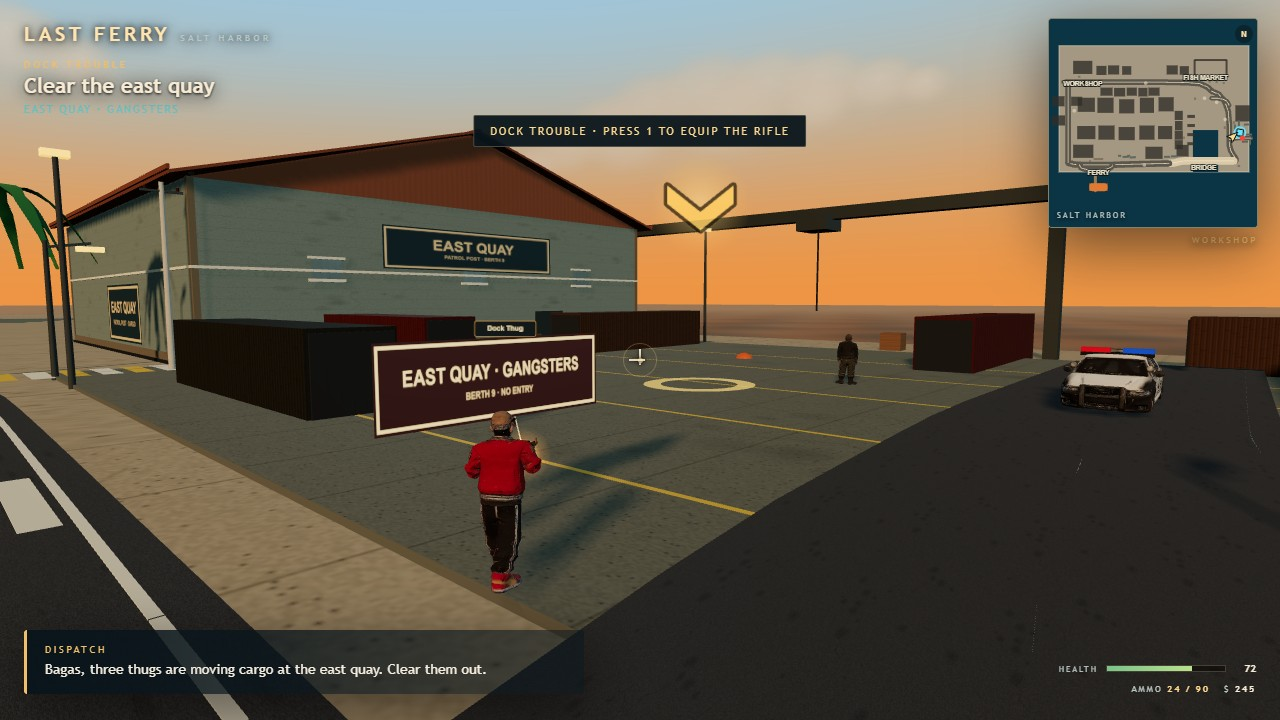
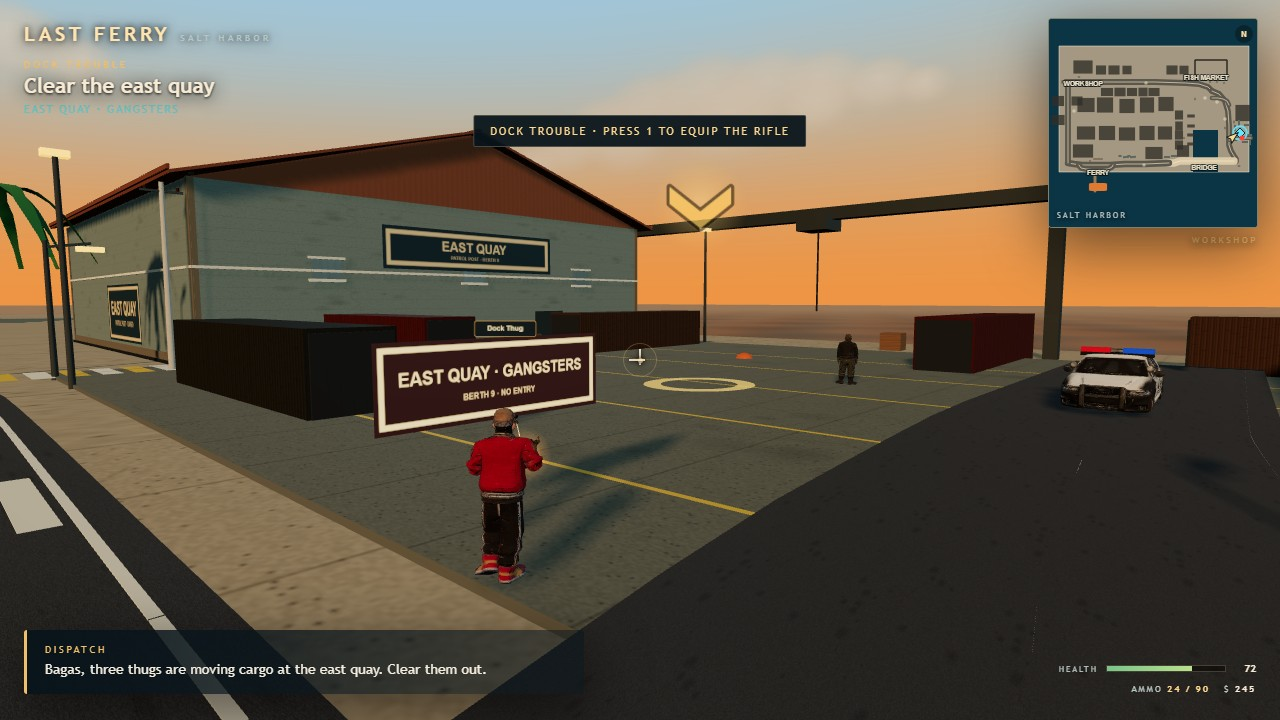
feat: end the story on a timed complete card
- Show STORY COMPLETE · SALT HARBOR for four wall-clock seconds on the boarding card.
- Then drop to free roam with a cleared objective and the day scene; no render behind the card.
- Keep ordinary Continue on resume, so the CANAL RUN card cannot skip Ferry Escape.
- Refresh the four stills with the rewritten sign faces.

diff --git a/game/src/missions.js b/game/src/missions.js
@@ -1,2 +1,2 @@
-import*as t from"../vendor/three.module.min.js";import{NODES as s,POI as i,distance2D as h,rngFor as e}from"./core.js";import{walkHeightAt as r}from"./world.js";import{Actor as o}from"./npc.js";import{createBeacon as MB}from"./missionprops.js";const a=Math,RK={x:-157,z:-83.5},{Vector3:n,RingGeometry:l,MeshBasicMaterial:c,Mesh:d,Group:u,DoubleSide:f}=t,p="find_truck",k="cross_bridge",m="ferry_lane",y="return_workshop",b="dock_trouble",_="debt_run",w="canal_run",C="ferry_escape",g="free_roam",T={find_truck:["Take the impounded tow truck","Impound lot · Fish Market",s.slot_tow_truck_A.x,s.slot_tow_truck_A.z],cross_bridge:["Cross the bridge checkpoint","Canal Bend → Bridge",s.checkpoint_bridge_01.x,s.checkpoint_bridge_01.z],ferry_lane:["Park in the ferry lane","Ferry Terminal · Pier 4",s.lane_ferry_dest.x,s.lane_ferry_dest.z],return_workshop:["Return Tirta to the workshop","West Junction → Shop Street",i.workshop.x,i.workshop.z],debt_run:["Collect the market debt","Market · Alley · Pier",i.market.x,i.market.z],canal_run:["Reach the ferry terminal in 75 s","Ferry Terminal · Pier 4",i.terminal.x,i.terminal.z],ferry_escape:["Board the last ferry","Pier · last departure",i.pier.x,i.pier.z],free_roam:["Free roam Salt Harbor","East quay · dock trouble reported",168,30],dock_trouble:["Clear the east quay","East Quay · gangsters",168,30]},D=[i.market,i.alley,i.pier],X={[_]:[168,30,0],[w]:[i.pier.x,i.pier.z,0],[C]:[i.terminal.x,i.terminal.z,0]},TR={find_truck:"vehicle",cross_bridge:"arrive",ferry_lane:"arrive",return_workshop:"arrive",dock_trouble:"combat",debt_run:"interact",canal_run:"timed",ferry_escape:"interact",free_roam:"none"},A=t=>{const s=a.max(0,a.ceil(t));return`${String(a.floor(s/60)).padStart(2,"0")}:${String(s%60).padStart(2,"0")}`};export class MissionDirector{constructor(t){this.i=t.scene,this.p=t.player,this.f=t.fleet,this.l=t.police,this.n=t.npc,this.h=t.hud,this.u=t.audio,this.c=t.combat,this.dn=t.dayNight??null,this.m=120,this.st=p,this.k=[],this.t=0,this.sT=0,this.completed=!1,this._=!1,this.d=0,this.C=D[0],this.g=null,this.T=function(t){const s=new u;s.name="mission_marker";const i=new d(new l(1.3,1.9,32),new c({color:16761436,transparent:!0,opacity:.8,side:f,depthWrite:!1}));return i.rotation.x=-a.PI/2,i.position.y=.22,s.add(i),s.visible=!1,t.add(s),s}(this.i),this.beacon=MB(this.i),this.o=null,this.setObjective(...T.find_truck),this.h.setMission("Last Ferry","The impound lot is behind the Fish Market."),this.D={nodes:s,stage:this.st,objective:this.o,events:this.k,startTruckRun:()=>this.replay(),onTruckTakeover:t=>this.k.push({type:"listener",handler:t})},window.LastFerryMission=this.D,window.LastFerryNodes=s,this.c.A=()=>{this.st===_&&this.checkpointRetry()}}setObjective(t,s,i,h){this.o={text:t,area:s,x:i,z:h},this.T.position.set(i,r(i,h,4),h),this.T.visible=!0,this.beacon&&(this.beacon.position.set(i,r(i,h,4)+6.2,h),this.beacon.visible=!0),this.h.setObjective(t,s)}clearObjective(t,s){this.o=null,this.T.visible=!1,this.beacon&&(this.beacon.visible=!1),this.D&&(this.D.hasObjective=!1,this.D.trigger=TR[this.st]),this.h.setObjective(t,s)}onEnterVehicle(t){"tow"===t.key?this.st===p&&this.R():this.l?.onCarStolen(t)}R(){if(this.st!==p)return;const t={type:"truck_takeover",vehicle:"tow",label:"Tirta",node:"slot_tow_truck_A",time:this.t,area:"Parking Lot"};this.k.push(t);for(const s of this.k)"listener"===s.type&&s.handler?.(t);window.dispatchEvent(new CustomEvent("lastferry:truck-takeover",{detail:t})),this.st=k,this.sT=0,this.n.daraRadioCall(),this.l.setWanted(1,!0),this.u?.radioChatter(),this.h.setDialogue("DARA","Bagas! That truck is impounded. Stop the truck. I am calling it in.",5.2),this.h.showToast("Wanted level 1 · Patrol Unit 7 dispatched"),this.h.setMission("Last Ferry","Dara has called the harbour patrol."),this.setObjective(...T.cross_bridge),this.h.setWanted(1),this.S("truck_takeover")}v(){this.st===k&&(this.st=m,this.sT=0,this.u?.radioChatter(),this.h.setDialogue("DISPATCH","Unit 7, he is over the bridge. Cut him off on Waterfront Road.",4.5),this.setObjective(...T.ferry_lane))}P(){this.st===m&&(this.st=y,this.sT=0,this.h.setDialogue("IDRIS","Tirta, you are in the lane. The last ferry is held at Pier 4. Park her and see me.",5.2),this.setObjective(...T.return_workshop))}F(){this.st===y&&(this.st=g,this.completed=!0,this.m+=850,this.l.setWanted(0,!1),this.h.setWanted(0),this.h.setMoney(this.m),this.c&&(this.c.available=!0),this.u?.success(),this.h.showMissionComplete({title:"LAST FERRY",detail:`Tirta is home. Dara keeps the report quiet. Cash: $${this.m}.`,money:this.m,reward:850}),this.h.setMission("Last Ferry","The run is done. Salt Harbor is yours."),this.clearObjective(...T.free_roam),this.S("mission_complete"))}$(){this.st=_,this.d=0,this.C=D[0],this.g=null,this.h.setMission("Debt Collector","Debt"),this.h.setDialogue("DARA","Market, alley, pier.",4.5),this.u?.radioChatter(),this.setObjective("Collect the market debt 0/3","Market · Alley · Pier",i.market.x,i.market.z)}interact(){return h(this.p.x,this.p.z,RK.x,RK.z)<3?this.buyAmmo():this.st===_&&this.d<3&&h(this.p.x,this.p.z,this.C.x,this.C.z)<3?(this.M(),!0):this.st===C&&h(this.p.x,this.p.z,i.pier.x,i.pier.z)<3&&(this.B(),!0)}buyAmmo(){return this.m<25?(this.h.showToast("Not enough cash"),!0):(this.m-=25,this.p.reserve+=30,this.h.setMoney(this.m),this.h.setAmmo(this.p.ammo,this.p.reserve,this.p.equipped),this.u?.ui(),this.h.showToast("Ammo · 30 rounds · −$25"),!0)}M(){this.d++,this.m+=150,this.h.setMoney(this.m),this.u?.ui(),this.h.showToast("Debt · +$150"),this.h.setDialogue("TRADER","Paid.",3.2),this.d<3?(this.C=D[this.d],this.setObjective(`Collect the market debt ${this.d}/3`,"Market · Alley · Pier",this.C.x,this.C.z)):(this.setObjective("Clear the pier 3/3","Pier",i.pier.x,i.pier.z),this.c.L(i.pier.x,i.pier.z),this.h.setMission("Debt Collector","Armed crew."),this.h.setDialogue("DISPATCH","Clear them.",4))}I(){this.q(w,75,"Canal Run","75 s.")}O(){this.q(C,90,"Ferry Escape","Board the last ferry!"),this.l.setWanted(2,!0),this.h.setWanted(2)}q(t,s,i,h){this.st=t,this.sT=s,this.g=null,this.setObjective(...T[t]),this.h.setMission(i,""),this.h.setDialogue("DARA",h,4.8),this.u?.radioChatter()}finish(t,s,i,h){this.m+=t,this.h.setMoney(this.m),this.h.showMissionComplete({title:s,detail:`${i} Cash: $${this.m}.`,money:this.m,reward:t}),h()}B(){this.st===C&&(this.h.setObjectiveHint(''),this.h.showToast('Last ferry boarded'),this.l.setWanted(0,!1),this.h.setWanted(0),this.u?.success(),this.h.setMission("Salt Harbor","Leaves."),this.m+=600,this.h.setMoney(this.m),this.h.showMissionComplete({title:"SALT HARBOR",detail:`Aboard the last ferry. Cash: $${this.m}.`,money:this.m,reward:600}),this.S("ferry_boarded"))}endStory(){this.st===C&&(this.st=g,this.completed=!0,this.h.setObjectiveHint(''),this.clearObjective(...T.free_roam),this.h.setWanted(0),this.h.setCrosshair(!1),this.h.setMission("Salt Harbor","The run is done. Salt Harbor is yours."),this.dn?.setStage(g),this.D.stage=g,this.D.objective=null,this.D.hasObjective=!1,this.D.trigger=TR[g],this.S("mission_complete"))}update(t,e){this.t+=t;const r=this.st===w||this.st===C;this.sT=r?a.max(0,this.sT-t):this.sT+t,this.T.children[0].rotation.z+=.7*t;const o="tow"===this.f.driven?.key;r&&(this.h.objective.textContent=`${this.o.text} · ${A(this.sT)}`),this.st===p?o&&this.R():this.st===k?o&&this.p.y>1.4&&h(this.p.x,this.p.z,s.checkpoint_bridge_01.x,s.checkpoint_bridge_01.z)<2.5&&this.v():this.st===m?o&&h(this.p.x,this.p.z,s.lane_ferry_dest.x,s.lane_ferry_dest.z)<2.5&&this.P():this.st===y?o&&h(this.p.x,this.p.z,i.workshop.x,i.workshop.z)<2.5&&this.F():this.st===g?this.c&&!this.c.active&&this.c.available&&h(this.p.x,this.p.z,168,30)<22&&(this.st=b,this._=!1,this.c.start(),this.h.setMission("Dock Trouble","Three dock thugs are moving cargo at the east quay."),this.setObjective(...T.dock_trouble)):this.st===b?this.c?.cleared&&!this._&&(this._=!0,this.st=_,this.m+=500,this.h.setMoney(this.m),this.h.showToast("East quay cleared · +$500"),this.h.showMissionComplete({title:"DOCK TROUBLE",detail:`Quay cleared. Cash: $${this.m}.`,money:this.m,reward:500}),this.$(),this.S("dock_complete")):this.st===_?this.d>=3&&this.c?.cleared&&(this.l.setWanted(0,!1),this.h.setWanted(0),this.h.showToast("Debt settled"),this.finish(400,"DEBT COLLECTOR","Debt done.",()=>this.I()),this.S("debt_complete")):this.st===w?this.f.driven&&this.sT>0&&this.G()&&h(this.p.x,this.p.z,i.terminal.x,i.terminal.z)<2.5?(this.h.showToast("Terminal reached"),this.finish(300,"CANAL RUN","Made it.",()=>this.O()),this.S("canal_complete")):this.sT<=0&&(this.sT=75,this.checkpointRetry()):this.st===C&&(this.l.wanted<2&&(this.l.setWanted(2,!0),this.h.setWanted(2)),this.sT<=0&&(this.sT=90,this.checkpointRetry())),e?.consume("KeyM")&&this.st===g&&this.replay(),this.hint(),this.D.stage=this.st,this.D.objective=this.o,this.D.trigger=TR[this.st],this.D.hasObjective=!!this.o,this.dn?.setStage(this.st)}
+import*as t from"../vendor/three.module.min.js";import{NODES as s,POI as i,distance2D as h,rngFor as e}from"./core.js";import{walkHeightAt as r}from"./world.js";import{Actor as o}from"./npc.js";import{createBeacon as MB}from"./missionprops.js";const a=Math,RK={x:-157,z:-83.5},{Vector3:n,RingGeometry:l,MeshBasicMaterial:c,Mesh:d,Group:u,DoubleSide:f}=t,p="find_truck",k="cross_bridge",m="ferry_lane",y="return_workshop",b="dock_trouble",_="debt_run",w="canal_run",C="ferry_escape",g="free_roam",T={find_truck:["Take the impounded tow truck","Impound lot · Fish Market",s.slot_tow_truck_A.x,s.slot_tow_truck_A.z],cross_bridge:["Cross the bridge checkpoint","Canal Bend → Bridge",s.checkpoint_bridge_01.x,s.checkpoint_bridge_01.z],ferry_lane:["Park in the ferry lane","Ferry Terminal · Pier 4",s.lane_ferry_dest.x,s.lane_ferry_dest.z],return_workshop:["Return Tirta to the workshop","West Junction → Shop Street",i.workshop.x,i.workshop.z],debt_run:["Collect the market debt","Market · Alley · Pier",i.market.x,i.market.z],canal_run:["Reach the ferry terminal in 75 s","Ferry Terminal · Pier 4",i.terminal.x,i.terminal.z],ferry_escape:["Board the last ferry","Pier · last departure",i.pier.x,i.pier.z],free_roam:["Free roam Salt Harbor","East quay · dock trouble reported",168,30],dock_trouble:["Clear the east quay","East Quay · gangsters",168,30]},D=[i.market,i.alley,i.pier],X={[_]:[168,30,0],[w]:[i.pier.x,i.pier.z,0],[C]:[i.terminal.x,i.terminal.z,0]},TR={find_truck:"vehicle",cross_bridge:"arrive",ferry_lane:"arrive",return_workshop:"arrive",dock_trouble:"combat",debt_run:"interact",canal_run:"timed",ferry_escape:"interact",free_roam:"none"},A=t=>{const s=a.max(0,a.ceil(t));return`${String(a.floor(s/60)).padStart(2,"0")}:${String(s%60).padStart(2,"0")}`};export class MissionDirector{constructor(t){this.i=t.scene,this.p=t.player,this.f=t.fleet,this.l=t.police,this.n=t.npc,this.h=t.hud,this.u=t.audio,this.c=t.combat,this.dn=t.dayNight??null,this.m=120,this.st=p,this.k=[],this.t=0,this.sT=0,this.completed=!1,this._=!1,this.d=0,this.C=D[0],this.g=null,this.T=function(t){const s=new u;s.name="mission_marker";const i=new d(new l(1.3,1.9,32),new c({color:16761436,transparent:!0,opacity:.8,side:f,depthWrite:!1}));return i.rotation.x=-a.PI/2,i.position.y=.22,s.add(i),s.visible=!1,t.add(s),s}(this.i),this.beacon=MB(this.i),this.o=null,this.setObjective(...T.find_truck),this.h.setMission("Last Ferry","The impound lot is behind the Fish Market."),this.D={nodes:s,stage:this.st,objective:this.o,events:this.k,startTruckRun:()=>this.replay(),onTruckTakeover:t=>this.k.push({type:"listener",handler:t})},window.LastFerryMission=this.D,window.LastFerryNodes=s,this.c.A=()=>{this.st===_&&this.checkpointRetry()}}setObjective(t,s,i,h){this.o={text:t,area:s,x:i,z:h},this.T.position.set(i,r(i,h,4),h),this.T.visible=!0,this.beacon&&(this.beacon.position.set(i,r(i,h,4)+6.2,h),this.beacon.visible=!0),this.h.setObjective(t,s)}clearObjective(t,s){this.o=null,this.T.visible=!1,this.beacon&&(this.beacon.visible=!1),this.D&&(this.D.hasObjective=!1,this.D.trigger=TR[this.st]),this.h.setObjective(t,s)}onEnterVehicle(t){"tow"===t.key?this.st===p&&this.R():this.l?.onCarStolen(t)}R(){if(this.st!==p)return;const t={type:"truck_takeover",vehicle:"tow",label:"Tirta",node:"slot_tow_truck_A",time:this.t,area:"Parking Lot"};this.k.push(t);for(const s of this.k)"listener"===s.type&&s.handler?.(t);window.dispatchEvent(new CustomEvent("lastferry:truck-takeover",{detail:t})),this.st=k,this.sT=0,this.n.daraRadioCall(),this.l.setWanted(1,!0),this.u?.radioChatter(),this.h.setDialogue("DARA","Bagas! That truck is impounded. Stop the truck. I am calling it in.",5.2),this.h.showToast("Wanted level 1 · Patrol Unit 7 dispatched"),this.h.setMission("Last Ferry","Dara has called the harbour patrol."),this.setObjective(...T.cross_bridge),this.h.setWanted(1),this.S("truck_takeover")}v(){this.st===k&&(this.st=m,this.sT=0,this.u?.radioChatter(),this.h.setDialogue("DISPATCH","Unit 7, he is over the bridge. Cut him off on Waterfront Road.",4.5),this.setObjective(...T.ferry_lane))}P(){this.st===m&&(this.st=y,this.sT=0,this.h.setDialogue("IDRIS","Tirta, you are in the lane. The last ferry is held at Pier 4. Park her and see me.",5.2),this.setObjective(...T.return_workshop))}F(){this.st===y&&(this.st=g,this.completed=!0,this.m+=850,this.l.setWanted(0,!1),this.h.setWanted(0),this.h.setMoney(this.m),this.c&&(this.c.available=!0),this.u?.success(),this.h.showMissionComplete({title:"LAST FERRY",detail:`Tirta is home. Dara keeps the report quiet. Cash: $${this.m}.`,money:this.m,reward:850}),this.h.setMission("Last Ferry","The run is done. Salt Harbor is yours."),this.clearObjective(...T.free_roam),this.S("mission_complete"))}$(){this.st=_,this.d=0,this.C=D[0],this.g=null,this.h.setMission("Debt Collector","Debt"),this.h.setDialogue("DARA","Market, alley, pier.",4.5),this.u?.radioChatter(),this.setObjective("Collect the market debt 0/3","Market · Alley · Pier",i.market.x,i.market.z)}interact(){return h(this.p.x,this.p.z,RK.x,RK.z)<3?this.buyAmmo():this.st===_&&this.d<3&&h(this.p.x,this.p.z,this.C.x,this.C.z)<3?(this.M(),!0):this.st===C&&h(this.p.x,this.p.z,i.pier.x,i.pier.z)<3&&(this.B(),!0)}buyAmmo(){return this.m<25?(this.h.showToast("Not enough cash"),!0):(this.m-=25,this.p.reserve+=30,this.h.setMoney(this.m),this.h.setAmmo(this.p.ammo,this.p.reserve,this.p.equipped),this.u?.ui(),this.h.showToast("Ammo · 30 rounds · −$25"),!0)}M(){this.d++,this.m+=150,this.h.setMoney(this.m),this.u?.ui(),this.h.showToast("Debt · +$150"),this.h.setDialogue("TRADER","Paid.",3.2),this.d<3?(this.C=D[this.d],this.setObjective(`Collect the market debt ${this.d}/3`,"Market · Alley · Pier",this.C.x,this.C.z)):(this.setObjective("Clear the pier 3/3","Pier",i.pier.x,i.pier.z),this.c.L(i.pier.x,i.pier.z),this.h.setMission("Debt Collector","Armed crew."),this.h.setDialogue("DISPATCH","Clear them.",4))}I(){this.q(w,75,"Canal Run","75 s.")}O(){this.q(C,90,"Ferry Escape","Board the last ferry!"),this.l.setWanted(2,!0),this.h.setWanted(2)}q(t,s,i,h){this.st=t,this.sT=s,this.g=null,this.setObjective(...T[t]),this.h.setMission(i,""),this.h.setDialogue("DARA",h,4.8),this.u?.radioChatter()}finish(t,s,i,h){this.m+=t,this.h.setMoney(this.m),this.h.showMissionComplete({title:s,detail:`${i} Cash: $${this.m}.`,money:this.m,reward:t}),h()}B(){this.st===C&&(this.h.setObjectiveHint(''),this.h.showToast('Last ferry boarded'),this.l.setWanted(0,!1),this.h.setWanted(0),this.u?.success(),this.h.setMission("Salt Harbor","Leaves."),this.m+=600,this.h.setMoney(this.m),this.h.showMissionComplete({title:"STORY COMPLETE · SALT HARBOR",detail:`Aboard the last ferry. Cash: $${this.m}.`,money:this.m,reward:600},4),this.S("ferry_boarded"))}endStory(){this.st===C&&(this.st=g,this.completed=!0,this.h.setObjectiveHint(''),this.clearObjective('',''),this.h.setWanted(0),this.h.setCrosshair(!1),this.h.setMission("Salt Harbor","The run is done."),this.dn?.setStage(g),this.D.stage=g,this.D.objective=null,this.D.hasObjective=!1,this.D.trigger=TR[g],this.S("mission_complete"))}update(t,e){this.t+=t;const r=this.st===w||this.st===C;this.sT=r?a.max(0,this.sT-t):this.sT+t,this.T.children[0].rotation.z+=.7*t;const o="tow"===this.f.driven?.key;r&&(this.h.objective.textContent=`${this.o.text} · ${A(this.sT)}`),this.st===p?o&&this.R():this.st===k?o&&this.p.y>1.4&&h(this.p.x,this.p.z,s.checkpoint_bridge_01.x,s.checkpoint_bridge_01.z)<2.5&&this.v():this.st===m?o&&h(this.p.x,this.p.z,s.lane_ferry_dest.x,s.lane_ferry_dest.z)<2.5&&this.P():this.st===y?o&&h(this.p.x,this.p.z,i.workshop.x,i.workshop.z)<2.5&&this.F():this.st===g?this.c&&!this.c.active&&this.c.available&&h(this.p.x,this.p.z,168,30)<22&&(this.st=b,this._=!1,this.c.start(),this.h.setMission("Dock Trouble","Three dock thugs are moving cargo at the east quay."),this.setObjective(...T.dock_trouble)):this.st===b?this.c?.cleared&&!this._&&(this._=!0,this.st=_,this.m+=500,this.h.setMoney(this.m),this.h.showToast("East quay cleared · +$500"),this.h.showMissionComplete({title:"DOCK TROUBLE",detail:`Quay cleared. Cash: $${this.m}.`,money:this.m,reward:500}),this.$(),this.S("dock_complete")):this.st===_?this.d>=3&&this.c?.cleared&&(this.l.setWanted(0,!1),this.h.setWanted(0),this.h.showToast("Debt settled"),this.finish(400,"DEBT COLLECTOR","Debt done.",()=>this.I()),this.S("debt_complete")):this.st===w?this.f.driven&&this.sT>0&&this.G()&&h(this.p.x,this.p.z,i.terminal.x,i.terminal.z)<2.5?(this.h.showToast("Terminal reached"),this.finish(300,"CANAL RUN","Made it.",()=>this.O()),this.S("canal_complete")):this.sT<=0&&(this.sT=75,this.checkpointRetry()):this.st===C&&(this.l.wanted<2&&(this.l.setWanted(2,!0),this.h.setWanted(2)),this.sT<=0&&(this.sT=90,this.checkpointRetry())),e?.consume("KeyM")&&this.st===g&&this.replay(),this.hint(),this.D.stage=this.st,this.D.objective=this.o,this.D.trigger=TR[this.st],this.D.hasObjective=!!this.o,this.dn?.setStage(this.st)}
 hint(){const p=this.p,o=this.o;let text=h(p.x,p.z,RK.x,RK.z)<3?'Press E to buy 30 rounds · $25':'';if(text){}else if(this.st===_){if(this.d<3&&this.C&&h(p.x,p.z,this.C.x,this.C.z)<3)text='Press E to collect the debt';else if(this.d>=3&&this.c?.active)text='Clear the thugs'}else if(this.st===b&&this.c?.active)text='Clear the thugs';else if(this.st===w&&o&&h(p.x,p.z,o.x,o.z)<14)text=this.f.driven?'Stop on the terminal apron':'Reach the terminal apron in a vehicle';else if(this.st===C&&o&&h(p.x,p.z,o.x,o.z)<8)text='Press E to board the last ferry';this.h.setObjectiveHint(text)}restore(t){this.m=t.money??this.m,this.h.setMoney(this.m),this.st=t.stage??p,this.sT=t.stageTime??0,this.d=t.debt??0,this.C=D[Math.min(2,this.d)],this.st===g?this.clearObjective(...T.free_roam):this.setObjective(...T[this.st]??T.find_truck),"debt_run"===this.st&&this.d>0&&this.d<3&&this.setObjective(`Collect the market debt ${this.d}/3`,"Market · Alley · Pier",this.C.x,this.C.z);const s=!!t.combatCleared,h="dock_trouble"===this.st?"Dock Trouble":"free_roam"===this.st?"Salt Harbor":"debt_run"===this.st?"Debt Collector":"canal_run"===this.st?"Canal Run":"ferry_escape"===this.st?"Ferry Escape":"Last Ferry";this.completed="free_roam"===this.st||"dock_trouble"===this.st,this._="free_roam"===this.st&&s,this.h.setMission(h,"Saved run restored."),this.c&&(this.c.cleared=s,this.c.available="free_roam"===this.st&&!s,"dock_trouble"===this.st&&(s?this.c.active=!1:this.c.start()),"debt_run"===this.st&&this.d>=3&&!s&&(this.c.available=!0,this.c.L(i.pier.x,i.pier.z))),"ferry_escape"===this.st&&this.l.wanted<2&&(this.l.setWanted(2,!0),this.h.setWanted(2)),"canal_run"!==this.st&&"ferry_escape"!==this.st||(this.h.objective.textContent=`${this.o.text} · ${A(this.sT)}`)}G(){return!this.g||h(this.p.x,this.p.z,this.g.x,this.g.z)>=3}J(x,z,yaw){const o=this.o,r=this.st===C?4:3;if(o&&h(x,z,o.x,o.z)<r+1.5){let dx=x-o.x,dz=z-o.z,d=M.hypot(dx,dz);if(d<.01)dx=0,dz=-1,d=1;x=o.x+dx/d*(r+1.5);z=o.z+dz/d*(r+1.5)}this.p.teleport(x,z,yaw);this.g={x,z}}checkpointRetry(){this.f.driven&&this.f.exit(this.p),this.p.health=100,this.p.setEquipped(!1),this.h.setHealth(100),this.h.setAmmo(this.p.ammo,this.p.reserve,!1),this.h.setCrosshair(!1),this.h.setWanted(0),this.l.reset();const t=!!this.c?.cleared;this.c?.reset(),this._=!1,this.st===g&&this.c&&(this.c.cleared=t,this.c.available=!t);const h=(t,s,i,h=0)=>{const e=this.f.towTruck;e.x=t,e.z=s,e.yaw=i,e.y=r(t,s,h,!0),e.speed=0,e.heightVel=0,e.collisionHold=0,e.applyTransform(),this.f.enter(e,this.p)};if(this.st===k)h(s.junction_patrol_entry.x,s.junction_patrol_entry.z,s.junction_patrol_entry.yaw),this.l.setWanted(1,!0),this.h.setWanted(1);else if(this.st===m)h(s.checkpoint_bridge_01.x,s.checkpoint_bridge_01.z,s.checkpoint_bridge_01.yaw,4),this.l.setWanted(1,!0),this.h.setWanted(1);else if(this.st===y)h(s.lane_ferry_dest.x,s.lane_ferry_dest.z,s.lane_ferry_dest.yaw),this.l.setWanted(1,!0),this.h.setWanted(1);else if(this.st===b)this.p.teleport(154,38,2.27),this.c.available=!0,this.c.start();else if(this.st===_)this.J(...X[_]),this.d>=3?(this.c.available=!0,this.c.L(i.pier.x,i.pier.z),this.setObjective("Clear the pier 3/3","Pier · debt enforcers",i.pier.x,i.pier.z)):this.setObjective(`Collect the market debt ${this.d}/3`,"Market · Alley · Pier",this.C.x,this.C.z);else if(this.st===w||this.st===C){const t=this.st===C;this.sT=t?90:75,t?(this.J(...X[C]),this.l.setWanted(2,!0),this.h.setWanted(2)):(h(...X[w]),this.g={x:this.p.x,z:this.p.z}),this.setObjective(...T[this.st])}else this.p.teleport(s.spawn_player_01.x,s.spawn_player_01.z,s.spawn_player_01.yaw);this.h.showToast("Checkpoint retry")}replay(){this.st=p,this.completed=!1,this._=!1,this.l.reset(),this.h.setWanted(0);const t=this.f.towTruck;t.x=s.slot_tow_truck_A.x,t.z=s.slot_tow_truck_A.z,t.yaw=s.slot_tow_truck_A.yaw,t.y=.16,t.speed=0,t.heightVel=0,t.applyTransform(),this.f.driven&&this.f.exit(this.p),this.p.teleport(s.spawn_player_01.x,s.spawn_player_01.z,s.spawn_player_01.yaw),this.setObjective(...T.find_truck),this.h.setMission("Last Ferry","The impound lot is behind the Fish Market."),this.h.setDialogue("BAGAS","One more run before the last ferry.",3.4),this.c?.reset()}S(t){try{const s="lastFerry.events.v1",i=JSON.parse(localStorage.getItem(s)??"[]");i.push({type:t,at:(new Date).toISOString()}),localStorage.setItem(s,JSON.stringify(i.slice(-20)))}catch{}}}const R=[[160,30,2.2],[166,24,2.4],[173,33,2]],revive=t=>{t.alive=!0;t.attackTimer=0;if(t.fade)for(const m of t.fade)m.opacity=1;t.fade=null;t.root.visible=!0;if(!t.root.parent)t.scene.add(t.root)};export class CombatDirector{constructor(t){this.i=t.scene,this.assets=t.assets,this.p=t.player,this.l=t.police,this.h=t.hud,this.u=t.audio,this.fx=t.fx,this.H=e("dock-combat"),this.active=!1,this.cleared=!1,this.available=!1,this.thugs=R.map(([t,s,i],h)=>{const e=new o(this.i,this.assets,"gangster",{name:`npc_dock_thug_${h}`,x:t,z:s,yaw:i,clip:"Idle",label:"Dock Thug"});return e.root.visible=!1,e.attachRifle(this.assets),{actor:e,health:100,alive:!0,j:1+.4*h,W:{x:t,z:s,yaw:i}}}),this.civilians=t.npc?.citizens??[],this.down=new Set}start(){this.active=!0,this.cleared=!1,this.available=!1;for(const t of this.thugs)revive(t.actor),t.health=100,t.alive=!0,t.j=.8+.8*this.H(),t.actor.root.visible=!0,t.actor.alive=!0,t.actor.x=t.W.x,t.actor.z=t.W.z,t.actor.y=r(t.W.x,t.W.z),t.actor.root.position.set(t.W.x,t.actor.y,t.W.z),t.actor.root.rotation.y=t.W.yaw,t.actor.play("Idle",{fade:.1});this.h.setDialogue("DISPATCH","Bagas, three thugs are moving cargo at the east quay. Clear them out.",5),this.h.setMission("Dock Trouble","Armed thugs at the east quay. Press 1 for the rifle."),this.h.showToast("Dock Trouble · press 1 to equip the rifle")}L(t,s){this.thugs.forEach((i,h)=>{i.W.x=t+1.6*(h-1),i.W.z=s+(h%2?3:-3)}),this.start()}reset(){this.active=!1,this.cleared=!1,this.available=!1;for(const t of this.thugs)t.alive=!1,t.actor.root.visible=!1,t.actor.alive=!0,t.actor.play("Idle",{fade:.1})}update(t){let s=0;for(const i of this.thugs){if(!i.alive){i.actor.update(t,this.p);continue}if(!this.active)continue;s++;const e=i.actor,r=h(e.x,e.z,this.p.x,this.p.z);e.faceTo(this.p.x,this.p.z,t,4),e.update(t,this.p),r<42&&(i.j-=t,i.j<=0&&this.p.health>0&&(i.j=1.25+.9*this.H(),this.G(i,r))),r<4.2&&this.p.health>0&&(this.p.health-=.9*t,this.h.setHealth(this.p.health),this.p.health<=0&&this.N())}if(!this.active)return;0!==s||this.cleared||(this.cleared=!0,this.active=!1,this.available=!1,this.h.showToast("East quay cleared"),this.u?.success())}G(t,s){const i=t.actor;i.play("Firing_Rifle",{once:!0,fade:.05});const h=new n(i.x,i.y+1.2,i.z),e=new n(this.p.x,this.p.y+1.2,this.p.z);this.fx?.flash(h),this.fx?.tracer(h,e),this.u?.gunshot(.35,a.max(0,1-s/70)),this.H()<a.min(.62,.18+s/90)&&(this.p.health=a.max(0,this.p.health-7),this.h.setHealth(this.p.health),this.h.damageFlash(),this.p.health<=0&&this.N())}playerShot(t,s,i){this.l?.onGunshot();let h=null;for(const i of this.thugs)if(i.alive)for(const[e,r,o]of[[1.62,.36,100],[1.12,.52,38],[.62,.5,22]]){const a=new n(i.actor.x,i.actor.y+e,i.actor.z),l=a.clone().sub(t).dot(s);if(l<0||l>90)continue;const c=t.clone().addScaledVector(s,l);c.distanceTo(a)>r||(!h||l<h.t)&&(h={t:l,thug:i,damage:o,point:c})}if(!h)for(const a of this.civilians??[])if(a.alive&&!this.down.has(a)){const e=new n(a.x,a.y+1.15,a.z),l=e.clone().sub(t).dot(s);if(l<0||l>60)continue;const c=t.clone().addScaledVector(s,l);if(c.distanceTo(e)>.75)continue;this.down.add(a),a.die(),this.l?.onCivilianKilled(),this.fx?.impact(c,null,11746094);return{civilian:!0,point:c}}return h?(h.thug.health-=h.damage,this.fx?.impact(h.point,null,11746094),h.thug.health<=0&&h.thug.alive&&(h.thug.alive=!1,h.thug.actor.die(),this.u?.thugDown())):this.fx?.impact(t.clone().addScaledVector(s,90),null,13287588),i&&this.fx?.tracer(i,h?h.point:t.clone().addScaledVector(s,60)),h}N(){this.p.health=100,this.h.setHealth(100),this.h.setDialogue("BAGAS","I need to patch up. Back to the workshop.",3.4),this.p.teleport(s.spawn_player_01.x,s.spawn_player_01.z,s.spawn_player_01.yaw),this.l?.reset(),this.h.setWanted(0);for(const t of this.thugs)revive(t.actor),t.alive=!0,t.health=100,t.actor.alive=!0,t.actor.root.visible=!0,t.actor.play("Idle",{fade:.1});this.active=!0,this.cleared=!1,this.h.showToast("Back at the workshop · the quay is still hostile"),this.A?.()}}

diff --git a/game/src/hud.js b/game/src/hud.js
@@ -2,7 +2,7 @@
 import { POI, ROADS } from './core.js';
 const MINI=210,M=Math;
 export class Hud{
-constructor(options={}){this.onStart=options.onStart??(()=>{});this.onResume=options.onResume??(()=>{});this.onRetry=options.onRetry??(()=>{});this.onSave=options.onSave??(()=>{});this.onQuit=options.onQuit??(()=>{});this.onMissionContinue=options.onMissionContinue??(()=>{});this.dialogueTimer=0;this.toastTimer=0;this.damageTimer=0;this.controlsOpen=false;this.interaction='';this.buildLoading();this.buildHud();this.buildTitle();this.buildPause();this.buildMissionCard()}
+constructor(options={}){this.onStart=options.onStart??(()=>{});this.onResume=options.onResume??(()=>{});this.onRetry=options.onRetry??(()=>{});this.onSave=options.onSave??(()=>{});this.onQuit=options.onQuit??(()=>{});this.onMissionContinue=options.onMissionContinue??(()=>{});this.onStoryComplete=options.onStoryComplete??null;this.dialogueTimer=0;this.toastTimer=0;this.damageTimer=0;this.controlsOpen=false;this.interaction='';this.buildLoading();this.buildHud();this.buildTitle();this.buildPause();this.buildMissionCard()}
 buildLoading(){const element=document.createElement('div');element.id='loading';element.innerHTML='<div class="load-logo">Last <span>Ferry</span></div><div class="load-track"><div id="load-bar"></div></div><div id="load-text">Loading Salt Harbor</div>';document.body.appendChild(element);this.loading=element;this.loadBar=element.querySelector('#load-bar');this.loadText=element.querySelector('#load-text')}
 setLoading(progress,label){this.loadBar.style.width=`${M.round(progress*100)}%`;if(label)this.loadText.textContent=label}
 finishLoading(){this.loadBar.style.width='100%';this.loading.style.opacity='0';setTimeout(()=>this.loading.classList.add('hidden'),520)}
@@ -18,7 +18,7 @@ buildTitle(){const element=document.createElement('div');element.id='title-scree
 '<div class="controls-panel" id="controls-panel"><h3>Controls</h3><div class="control-grid"><span><kbd>W A S D</kbd> Move / drive</span><span><kbd>Shift</kbd> Sprint</span><span><kbd>Mouse</kbd> Look / steer camera</span><span><kbd>Space</kbd> Jump / handbrake</span><span><kbd>E</kbd> Enter / exit vehicle</span><span><kbd>T</kbd> Tow / release</span><span><kbd>1</kbd> Equip / unequip rifle</span><span><kbd>R</kbd> Reload rifle</span><span><kbd>J</kbd> Punch · <kbd>K</kbd> Kick</span><span><kbd>Left click</kbd> Fire / punch</span><span><kbd>Esc</kbd> Pause · <kbd>M</kbd> Replay</span></div></div>',
 '<div class="title-foot">Salt Harbor · 30 FPS target · Plays offline</div></div>'].join('');document.body.appendChild(element);this.title=element;this.startButton=element.querySelector('#btn-start');this.continueButton=element.querySelector('#btn-continue');this.controlsPanel=element.querySelector('#controls-panel');this.startButton.addEventListener('click',()=>this.onStart(false));this.continueButton.addEventListener('click',()=>this.onStart(true));element.querySelector('#btn-controls').addEventListener('click',()=>{this.controlsOpen=!this.controlsOpen;this.controlsPanel.classList.toggle('show',this.controlsOpen)})}
 buildPause(){const element=document.createElement('div');element.id='pause-screen';element.className='screen hidden';element.innerHTML='<div class="card"><div class="card-kicker">Salt Harbor</div><h2>Paused</h2><div class="menu"><button class="primary" id="btn-resume">Resume</button><button id="btn-retry">Retry checkpoint</button><button id="btn-save">Save game</button><button id="btn-title">Back to title</button></div></div>';document.body.appendChild(element);this.pauseScreen=element;element.querySelector('#btn-resume').addEventListener('click',()=>this.onResume());element.querySelector('#btn-retry').addEventListener('click',()=>this.onRetry());element.querySelector('#btn-save').addEventListener('click',()=>this.onSave());element.querySelector('#btn-title').addEventListener('click',()=>this.onQuit())}
-buildMissionCard(){const element=document.createElement('div');element.id='mission-card';element.className='hidden';element.innerHTML='<div class="card"><div class="card-kicker">Mission complete</div><h2 id="card-title">Last Ferry</h2><p id="card-detail"></p><div class="reward" id="card-reward"></div><div class="card-actions"><button class="primary" id="card-continue">Continue</button></div></div>';document.body.appendChild(element);this.missionCard=element;element.querySelector('#card-continue').addEventListener('click',()=>{this.missionCard.classList.add('hidden');this.onMissionContinue()})}
+buildMissionCard(){const element=document.createElement('div');element.id='mission-card';element.className='hidden';element.innerHTML='<div class="card"><div class="card-kicker">Mission complete</div><h2 id="card-title">Last Ferry</h2><p id="card-detail"></p><div class="reward" id="card-reward"></div><div class="card-actions"><button class="primary" id="card-continue">Continue</button></div></div>';document.body.appendChild(element);this.missionCard=element;element.querySelector('#card-continue').addEventListener('click',()=>{const story=this.missionCard.classList.contains('story');clearTimeout(this.cardTimeout);this.missionCard.classList.add('hidden');this.missionCard.classList.remove('story');if(story)this.onStoryComplete?.();else this.onMissionContinue()})}
 showTitle(hasSave,saveInfo=''){this.title.classList.remove('hidden');this.hud.classList.add('hidden');this.continueButton.disabled=!hasSave;if(saveInfo)this.continueButton.querySelector('small').textContent=saveInfo;this.finishLoading()}
 hideTitle(){this.title.classList.add('hidden');this.hud.classList.remove('hidden')}
 setMission(name,subtitle){this.missionName.textContent=name;if(subtitle)this.missionNote=subtitle}
@@ -36,7 +36,7 @@ showToast(text){this.toast.textContent=text;this.toast.classList.add('show');thi
 setInteract(text,key='E'){const id=key+text;if(id===this.interaction)return;this.interaction=id;if(text){this.interact.innerHTML=`<kbd>${key}</kbd>${text}`;this.interact.classList.add('show')}else this.interact.classList.remove('show')}
 setCrosshair(visible){this.crosshair.classList.toggle('show',visible)}
 damageFlash(){this.damage.classList.add('on');this.damageTimer=.12}
-showMissionComplete(data){this.missionCard.classList.remove('hidden');this.missionCard.querySelector('#card-title').textContent=data.title;this.missionCard.querySelector('#card-detail').textContent=data.detail;const reward=data.reward??data.money;this.missionCard.querySelector('#card-reward').textContent=reward?`+$${reward}`:'';this.missionCard.querySelector('#card-continue').focus();document.exitPointerLock?.()}
+showMissionComplete(data,seconds=0){this.missionCard.classList.remove('hidden');this.missionCard.classList.toggle('story',seconds>0);if(seconds>0){clearTimeout(this.cardTimeout);this.cardTimeout=setTimeout(()=>{this.missionCard.classList.add('hidden');this.missionCard.classList.remove('story');this.onStoryComplete?.()},seconds*1000)}this.missionCard.querySelector('#card-title').textContent=data.title;this.missionCard.querySelector('#card-detail').textContent=data.detail;const reward=data.reward??data.money;this.missionCard.querySelector('#card-reward').textContent=reward?`+$${reward}`:'';this.missionCard.querySelector('#card-continue').focus();document.exitPointerLock?.()}
 showPause(visible){this.pauseScreen.classList.toggle('hidden',!visible)}
 update(dt){if(this.dialogueTimer>0){this.dialogueTimer-=dt;if(this.dialogueTimer<=0)this.dialogue.classList.remove('show')}if(this.toastTimer>0){this.toastTimer-=dt;if(this.toastTimer<=0)this.toast.classList.remove('show')}if(this.damageTimer>0){this.damageTimer-=dt;if(this.damageTimer<=0)this.damage.classList.remove('on')}}}
 export class Minimap{

diff --git a/game/src/main.js b/game/src/main.js
@@ -16,7 +16,7 @@ const params=new URLSearchParams(location.search),debug=params.has('debug'),perf
 const canvas=document.getElementById('game'),renderer=new T.WebGLRenderer({canvas,antialias:true,powerPreference:'high-performance',alpha:false});renderer.setPixelRatio(M.min(window.devicePixelRatio||1,QUALITY.pixelRatioLimit));renderer.setSize(window.innerWidth,window.innerHeight,false);renderer.outputColorSpace=T.SRGBColorSpace;renderer.toneMapping=T.ACESFilmicToneMapping;renderer.toneMappingExposure=.98;renderer.shadowMap.enabled=true;renderer.shadowMap.type=T.PCFSoftShadowMap;
 const scene=new T.Scene;scene.background=new T.Color(0x0a1a22);scene.fog=new T.Fog(0xcdb9a2,100,430);const camera=new T.PerspectiveCamera(60,window.innerWidth/window.innerHeight,.1,900);camera.position.set(-50,40,60);const sky=buildSky(scene),sunDir=sky.sunDir,waterMaterial=buildWater(scene,sunDir);const hemi=new T.HemisphereLight(0xcfe4ee,0x4c4a3a,.72);scene.add(hemi);const sun=new T.DirectionalLight(0xffd2a3,2.15);sun.position.copy(sunDir).multiplyScalar(170);sun.castShadow=true;sun.shadow.mapSize.set(QUALITY.shadowMap,QUALITY.shadowMap);Object.assign(sun.shadow.camera,{left:-145,right:145,top:145,bottom:-145,near:1,far:460});sun.shadow.bias=-.0006;sun.shadow.normalBias=.03;scene.add(sun,sun.target);const fill=new T.DirectionalLight(0x8fb6c4,.45);fill.position.set(80,50,-120);scene.add(fill);const fillSouth=new T.DirectionalLight(0xa8c8d4,.72);fillSouth.position.set(110,45,170);scene.add(fillSouth);const ambient=new T.AmbientLight(0x6f8b93,.34);scene.add(ambient);
 let collision,assets,player,fleet,dayNight,npc,police,combat,missions,hud,minimap,input,audio,effects,save,shot=null,mode='loading',menuTime=0,driveOrbit=0,drivePitch=.24,saveTimer=0,minimapAccumulator=0,lastMissionStage=null,hadPointerLock=false,lastTime=performance.now(),fpsFrames=0,fpsTimer=0,perfOverlay=null;
-save=new SaveSystem;audio=new AudioDirector;input=new Input(canvas);hud=new Hud({onStart:continueRun=>startGame(continueRun),onResume:()=>resumeGame(),onRetry:()=>{missions.checkpointRetry();resumeGame()},onSave:()=>{saveGame(true);hud.showToast('Game saved')},onQuit:()=>showTitleMenu(),onMissionContinue:()=>{missions?.endStory();if(mode==='paused')resumeGame();else input.requestLock()}});
+save=new SaveSystem;audio=new AudioDirector;input=new Input(canvas);hud=new Hud({onStart:continueRun=>startGame(continueRun),onResume:()=>resumeGame(),onRetry:()=>{missions.checkpointRetry();resumeGame()},onSave:()=>{saveGame(true);hud.showToast('Game saved')},onQuit:()=>showTitleMenu(),onStoryComplete:()=>{missions?.endStory();input.requestLock()},onMissionContinue:()=>{if(mode==='paused')resumeGame();else input.requestLock()}});
 if(perf){perfOverlay=document.createElement('div');perfOverlay.style.cssText='position:fixed;left:12px;bottom:12px;z-index:60;padding:6px 9px;background:rgba(0,0,0,0.65);color:#9fe3c8;font:11px monospace;letter-spacing:1px;border:1px solid rgba(255,255,255,0.15)';document.body.appendChild(perfOverlay)}
 document.addEventListener('pointerlockchange',()=>{if(document.pointerLockElement===canvas)hadPointerLock=true;else if(hadPointerLock&&mode==='playing'){hadPointerLock=false;if(hud.missionCard.classList.contains('hidden'))pauseGame()}});canvas.addEventListener('click',()=>{if(mode==='playing'&&!input.locked)input.requestLock()});window.addEventListener('resize',()=>{renderer.setSize(window.innerWidth,window.innerHeight,false);camera.aspect=window.innerWidth/window.innerHeight;camera.updateProjectionMatrix()});boot();
 async function boot(){try{hud.setLoading(.04,'Charting Salt Harbor');assets=new AssetLibrary;await assets.load((progress,key)=>hud.setLoading(.05+progress*.72,`Loading ${labelFor(key)}`));if(debug)console.table(assets.debugStats);hud.setLoading(.8,'Building the harbour');collision=new CollisionWorld;const world=buildWorld(scene,collision,assets);buildMissionSigns(scene,collision,world.materials);collision.build();if(debug)console.info('Collider stats',collision.stats());hud.setLoading(.9,'Waking the city');player=new Player(scene,assets,collision);effects=new Effects(scene);fleet=new VehicleFleet(scene,collision,assets,world.signals);dayNight=new DayNight({scene,sun,hemi,fill,fillSouth,ambient,sky,water:waterMaterial,materials:world.materials});npc=new NpcDirector(scene,assets,world.signals,fleet);police=new PoliceDirector(fleet,player,audio,()=>{hud.showToast('Collared by Unit 7 · released at the workshop');hud.setWanted(0);missions?.h.setWanted(0)});police.onWanted=level=>hud.setWanted(level);combat=new CombatDirector({scene,assets,player,police,hud,audio,effects,collision,npc});missions=new MissionDirector({scene,player,fleet,police,npc,hud,audio,combat,dayNight});minimap=new Minimap(hud.minimapCanvas,collision);hud.setMoney(missions.m);hud.setHealth(player.health);hud.setWanted(0);input.enabled=true;
@@ -35,7 +35,7 @@ function loop(now){requestAnimationFrame(loop);const dt=M.min(.05,M.max(.0001,(n
 if(perf){fpsFrames++;fpsTimer+=dt;if(fpsTimer>=1){const fps=fpsFrames/fpsTimer,info=renderer.info.render;fpsFrames=0;fpsTimer=0;perfOverlay.textContent=`${fps.toFixed(0)} FPS · ${info.calls} calls · ${(info.triangles/1000).toFixed(0)}k tris`;window.__lastFerryPerf={fps:+fps.toFixed(1),calls:info.calls,triangles:info.triangles}}}
 if(mode==='title'){menuTime+=dt;const angle=menuTime*.045;camera.position.set(-30+M.cos(angle)*185,56+M.sin(angle*.7)*8,40+M.sin(angle)*165);camera.lookAt(-40,2,30);camera.fov=58;camera.updateProjectionMatrix();npc.update(M.min(dt,.033),player);effects.update(dt);dayNight.update(dt,{x:camera.position.x,z:camera.position.z},fleet.vehicles);sun.target.position.set(-20,0,10);sun.position.set(-20+sunDir.x*170,sunDir.y*170,10+sunDir.z*170);renderer.render(scene,camera);input.endFrame();return}
 if(mode==='shot'&&shot){shot.update(dt);if(window.__freeCam){const free=window.__freeCam;camera.position.set(free.px,free.py,free.pz);camera.lookAt(free.tx,free.ty,free.tz)}else{camera.position.copy(shot.cameraPos);camera.lookAt(shot.lookAt)}camera.fov=57;camera.updateProjectionMatrix();dayNight.update(dt,{x:camera.position.x,z:camera.position.z},fleet.vehicles);sun.target.position.set(shot.lookAt.x,0,shot.lookAt.z);sun.position.set(shot.lookAt.x+sunDir.x*170,sunDir.y*170,shot.lookAt.z+sunDir.z*170);effects.update(dt);drawMinimap(dt);hud.update(dt);renderer.render(scene,camera);input.endFrame();return}
-if(mode==='paused'){renderer.render(scene,camera);input.endFrame();return}if(!hud.missionCard.classList.contains('hidden')){renderer.render(scene,camera);input.endFrame();return}
+if(mode==='paused'){renderer.render(scene,camera);input.endFrame();return}if(!hud.missionCard.classList.contains('hidden')){input.endFrame();return}
 if(input.consume('Escape'))pauseGame();
 if(input.consume('KeyE')){if(!missions.interact()){if(fleet.driven){fleet.exit(player);driveOrbit=0;audio.ui()}else{const vehicle=fleet.nearestVehicle(player);if(vehicle){fleet.enter(vehicle,player);missions.onEnterVehicle(vehicle);driveOrbit=0;drivePitch=.26;audio.ui()}}}}
 if(fleet.driven?.key==='tow'&&input.consume('KeyT')){const before=fleet.towed;fleet.toggleTow();hud.showToast(fleet.towed?`${fleet.towed.label} hooked`:before?'Tow released':'No vehicle in tow range');audio.ui()}

diff --git a/game/index.html b/game/index.html
@@ -104,6 +104,8 @@ h1.logo span{display:block;color:var(--bright)}
 .card-actions button{padding:11px 22px;background:rgba(9,24,31,.9);border:1px solid rgba(240,191,106,.7);border-radius:3px;color:var(--bright);font-size:12px;letter-spacing:1.8px;text-transform:uppercase}
 .card-actions button:hover{background:rgba(20,42,48,.95)}
 #mission-card{position:fixed;inset:0;z-index:34;display:flex;align-items:center;justify-content:center;background:rgba(4,12,16,.62);backdrop-filter:blur(3px)}
+#mission-card.story .card-actions{display:none}
+#mission-card.story h2{font-size:34px;letter-spacing:2px;line-height:1.05}
 #loading{position:fixed;inset:0;z-index:50;background:#07141a;display:flex;flex-direction:column;align-items:center;justify-content:center;gap:18px;transition:opacity 500ms}
 #loading .load-logo{font-family:"Arial Narrow",Impact,sans-serif;font-size:clamp(52px,9vw,112px);letter-spacing:2px;color:#f7e6c6;text-transform:uppercase}
 #loading .load-logo span{color:var(--amber)}
